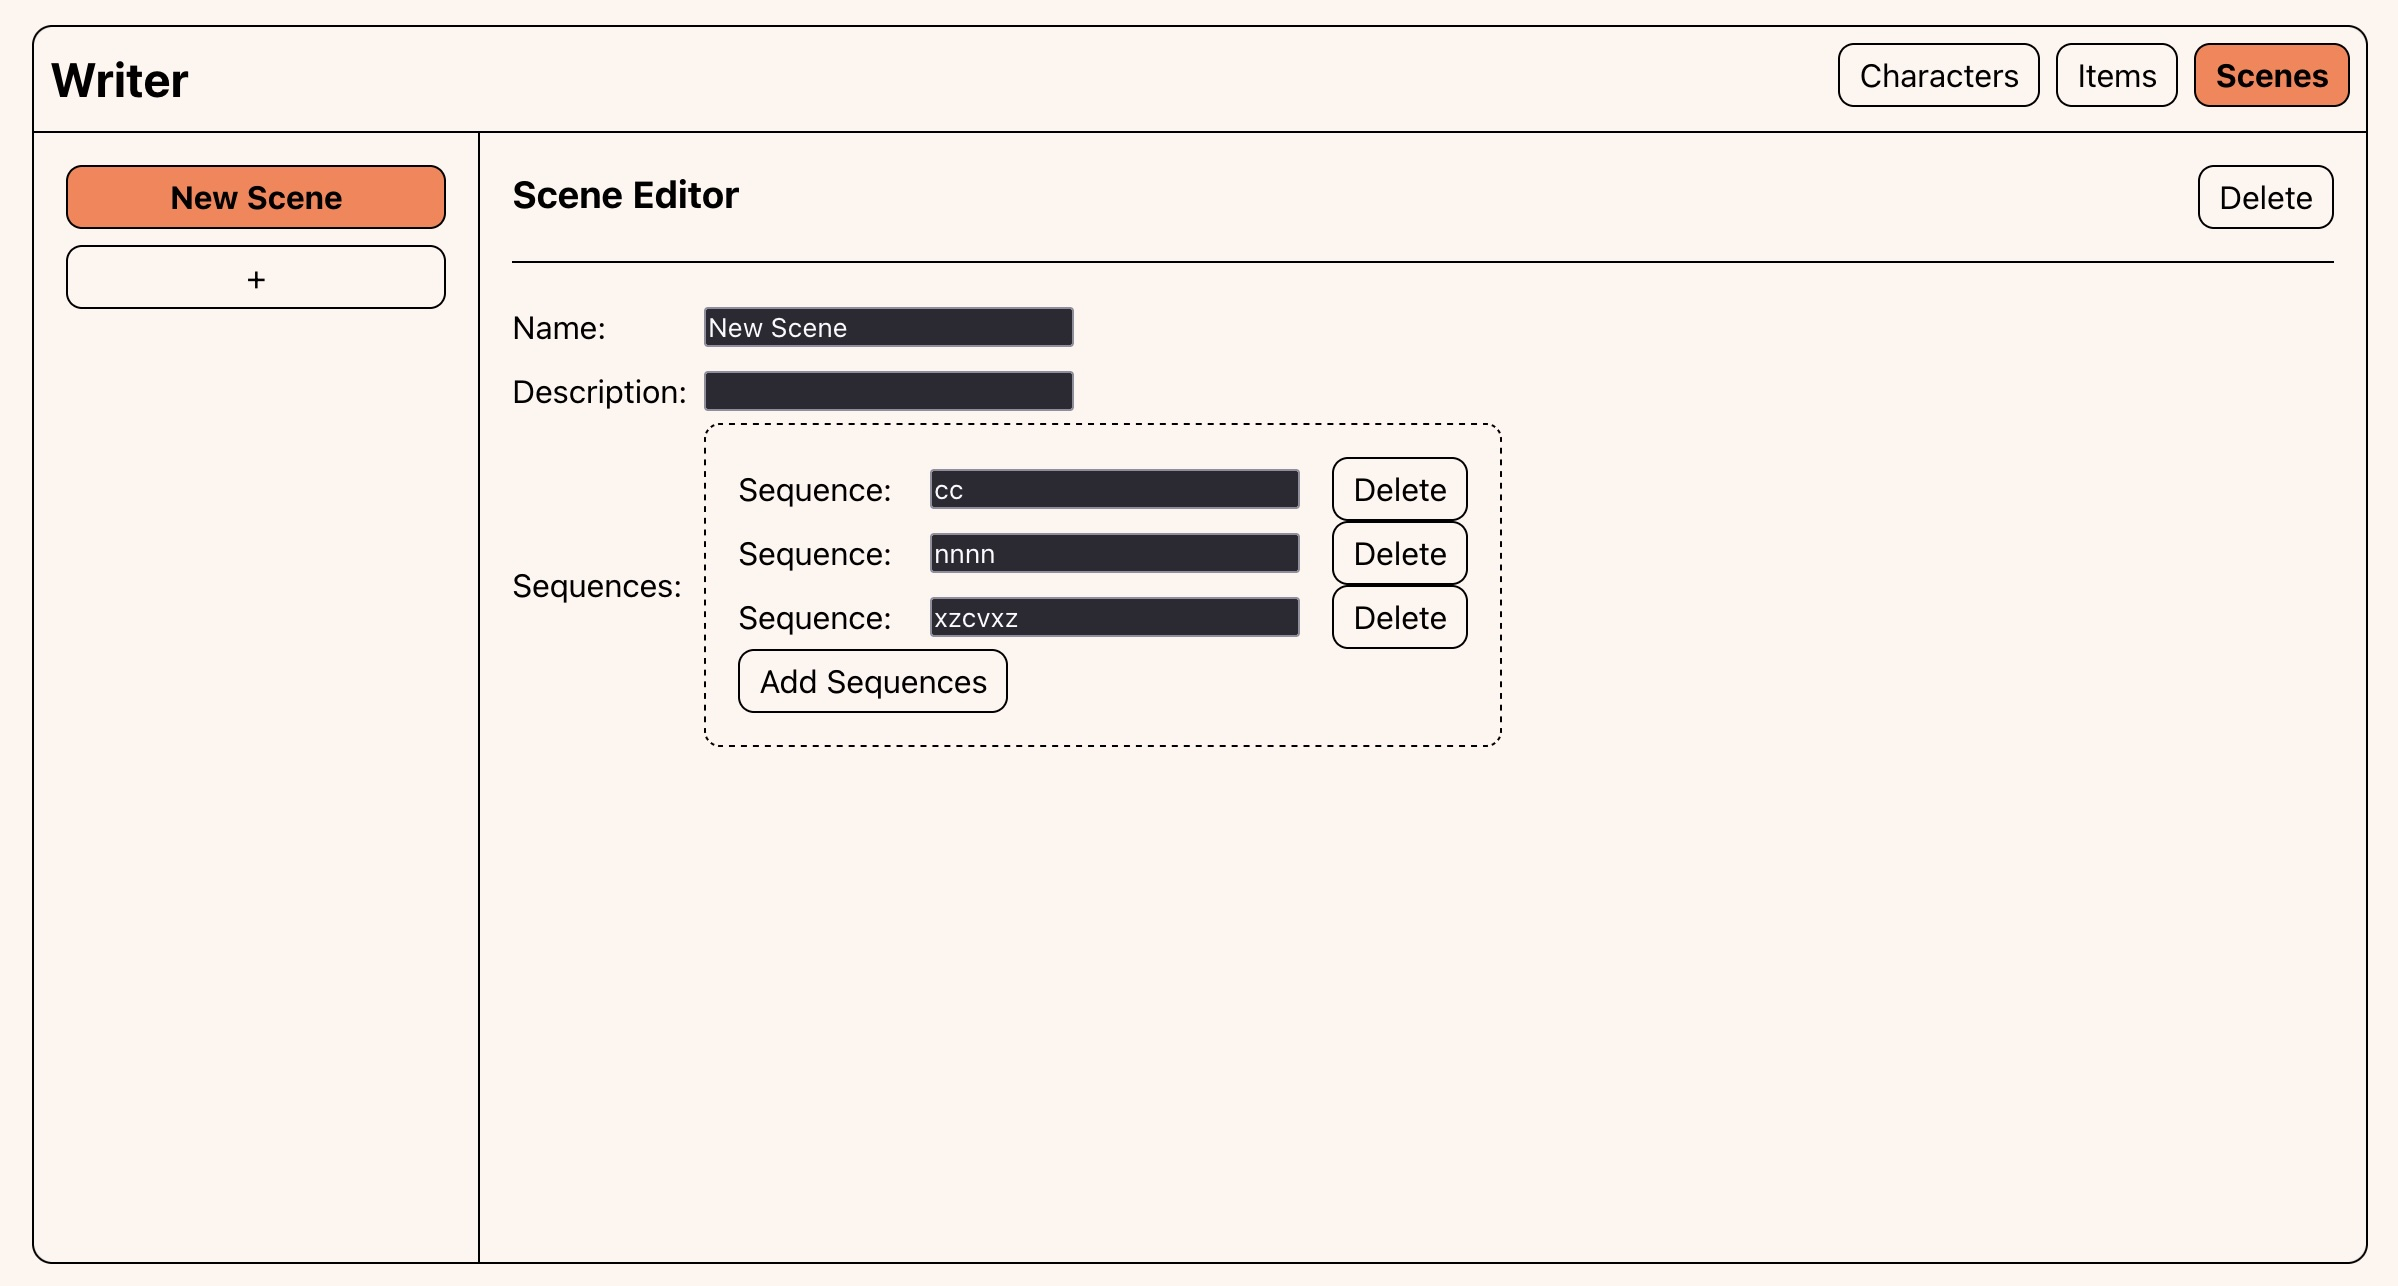
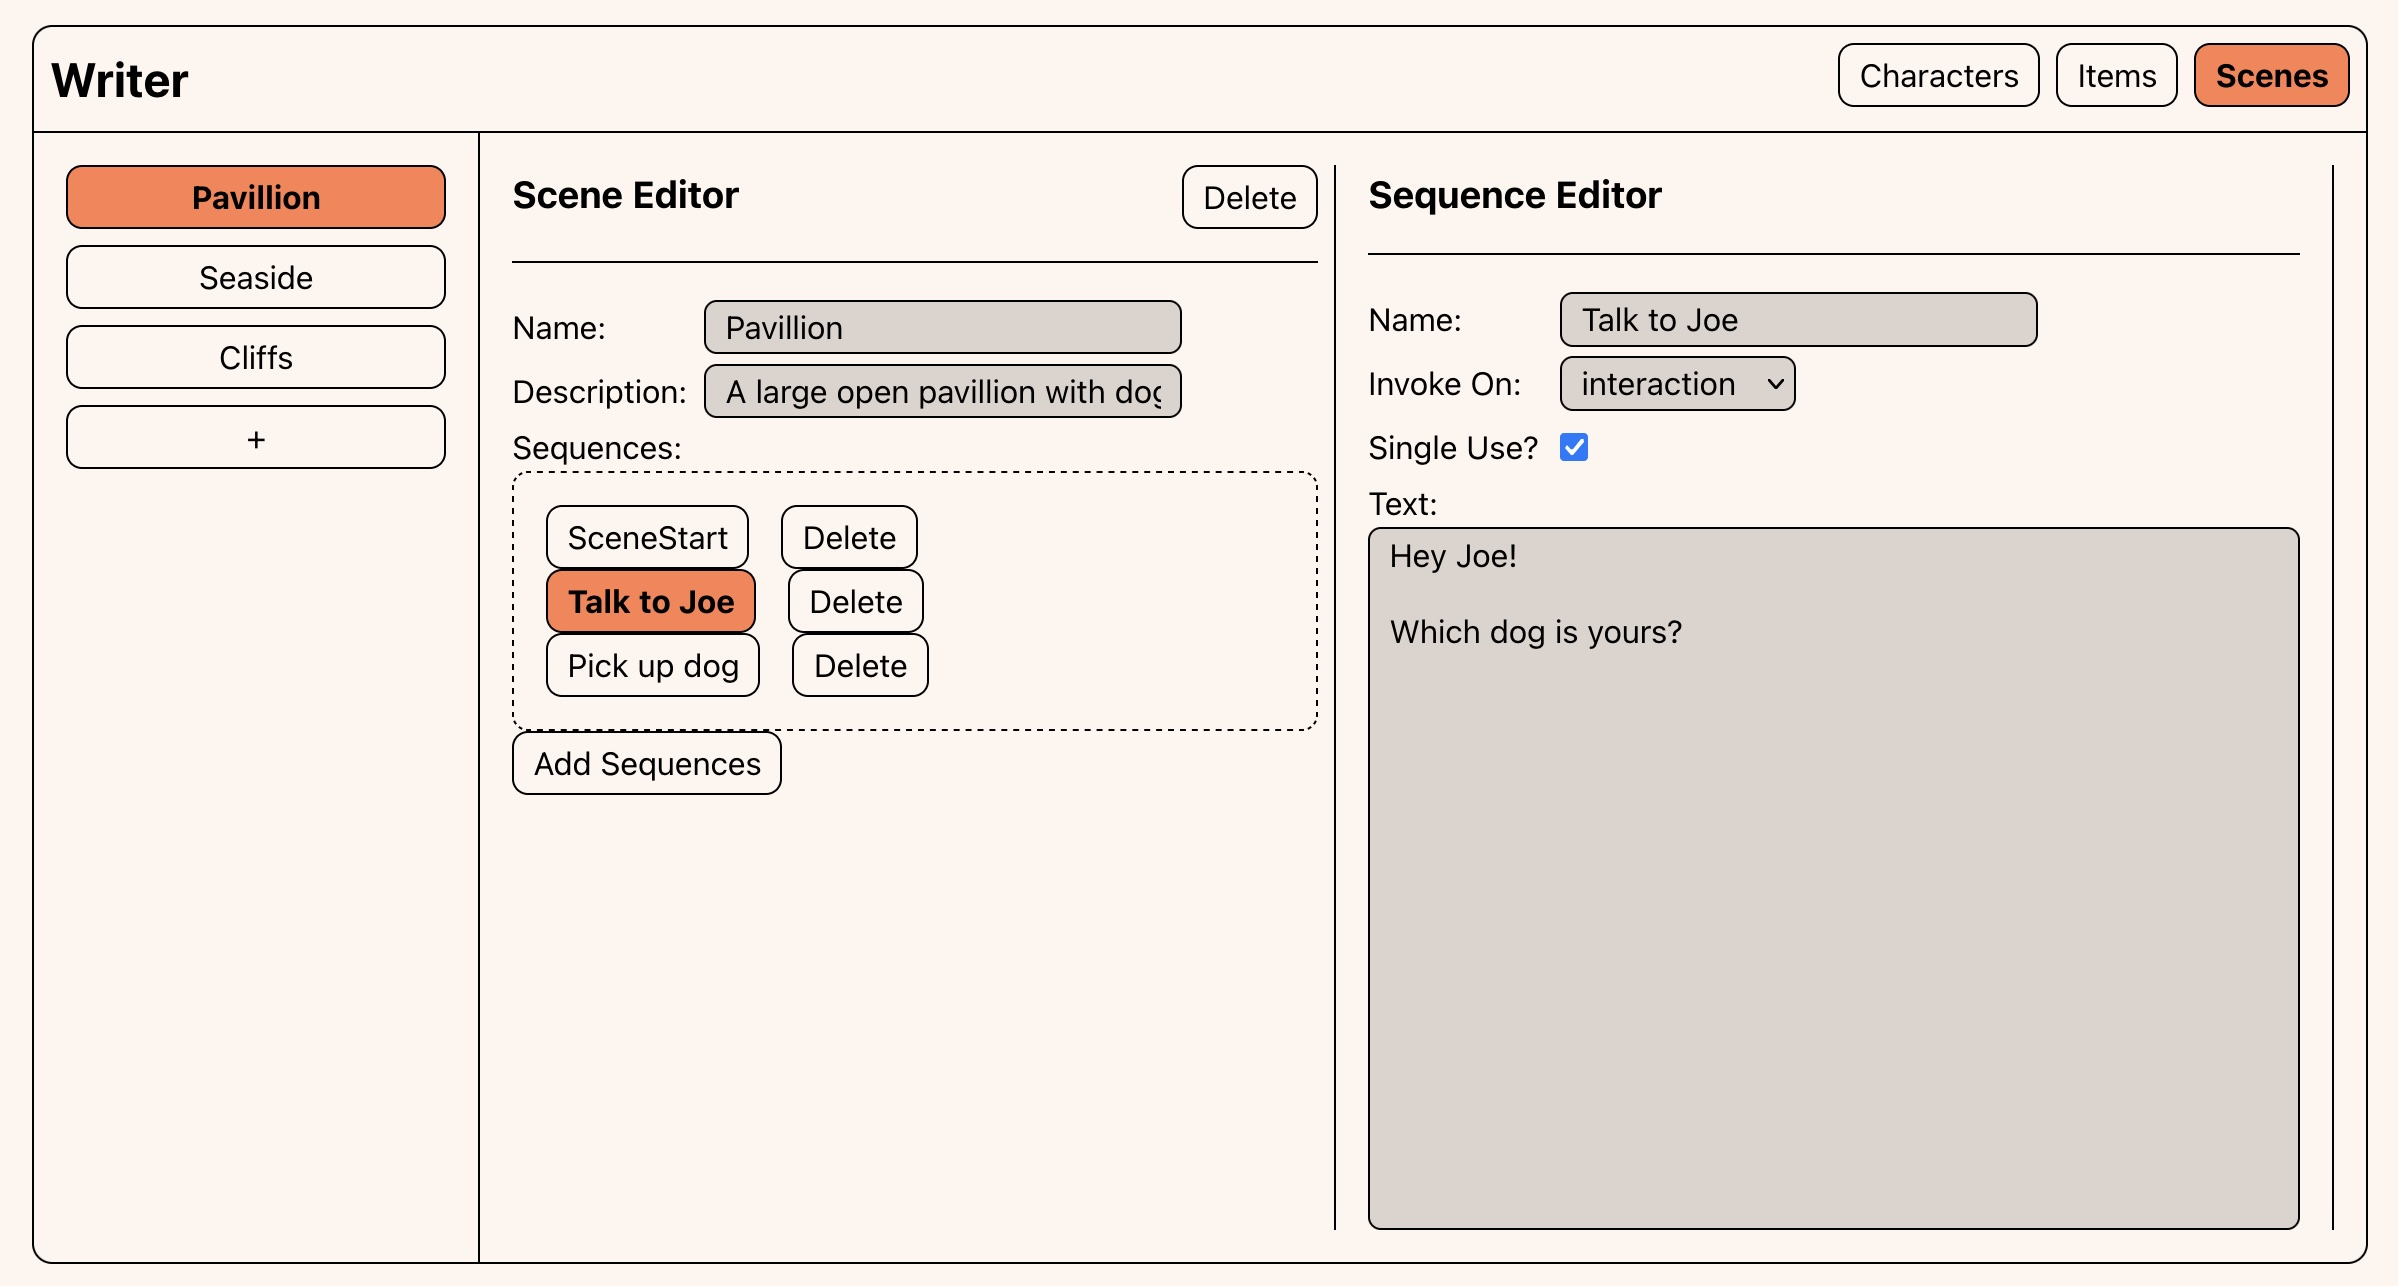
Creation and editing of Sequences added

diff --git a/src/Components/EntityEditor/FieldEditor.jsx b/src/Components/EntityEditor/FieldEditor.jsx
@@ -1,7 +1,8 @@
 import React from "react";
 import panelStyles from '../../Styles/Panels.module.css';
+import buttonStyles from "../../Styles/Buttons.module.css";
 
-function FieldEditor({field, value, onChange}) {
+function FieldEditor({field, value, onChange, selectedID, onSelect}) {
 
   function handleDelete(items, index) {
     if (!window.confirm(`Are you sure you want to delete this ${field.label}?`)) return
@@ -25,45 +26,48 @@ function FieldEditor({field, value, onChange}) {
       );
     case 'object[]': {
       const items = value ?? [];
-      return (
-          <div className={panelStyles.field}>
+
+      if (field.key === 'sequences' && onSelect){
+        return (
+          <div>
             <div style={{minWidth: '6em'}}>
               {field.label}:
             </div>
             <div className={panelStyles.nestedPanel}>
-            {items.map((item, index) => (
-                <div key={index} className={panelStyles.nestedItem}>
-                  {field.fields.map(subField => (
-                      <FieldEditor
-                          key={subField.key}
-                          field={subField}
-                          value={item[subField.key]}
-                          onChange={subValue => {
-                            const updated = [...items];
-                            updated[index] = {
-                              ...item,
-                              [subField.key]: subValue
-                            };
-                            onChange(updated);
-                          }}
-                      />
-                  ))}
-                  <div style={{minWidth: '1em'}} />
-                  <button onClick={()=>handleDelete(items, index)}>Delete</button>
-                </div>
-            ))}
-
+              {
+                items.map((seq, index) => (
+                    <div key={seq.id} className={panelStyles.nestedItem}>
+                      <button
+                          onClick={() => onSelect(seq.id)}
+                          className={seq.id === selectedID ? buttonStyles.activeButton : buttonStyles.button}
+                      >
+                        {seq.name}
+                      </button>
+                      <div style={{minWidth: '1em'}} />
+                      <button onClick={() => handleDelete(items, index)}>
+                        Delete
+                      </button>
+                    </div>
+                ))
+              }
+          </div>
             <button
                 onClick={() => {
-                  const newItem = Object.fromEntries(
-                      field.fields.map(f => [f.key, f.defaultValue])
-                  );
+                  const newItem = {
+                    id: crypto.randomUUID(),
+                    ...Object.fromEntries(
+                        field.fields.map(f => [f.key, f.defaultValue])
+                    )
+                  };
                   onChange([...items, newItem]);
                 }}>
               Add {field.label}
             </button>
-          </div>
         </div>
+      )}
+
+      return (
+          <></>
       );
     }
     default:

diff --git a/src/Components/SequenceEditor/SequenceEditor.jsx b/src/Components/SequenceEditor/SequenceEditor.jsx
@@ -1,0 +1,55 @@
+import React from 'react';
+import panelStyles from '../../Styles/Panels.module.css';
+
+function SequenceEditor({sequence, setSequence}) {
+  if (!sequence) return null;
+
+  return (
+      <div className={panelStyles.sequenceEditorPanel}>
+        <div className={panelStyles.panelHeader}>
+          <h3>Sequence Editor</h3>
+        </div>
+        <div className={panelStyles.workAreaContent}>
+          <div className={panelStyles.nestedItem}>
+            <div style={{minWidth: '6em'}}>
+              Name:
+            </div>
+            <input
+                type='text'
+                value={sequence.name}
+                onChange={(e) => setSequence({...sequence, name: e.target.value})}
+            />
+          </div>
+          <div className={panelStyles.nestedItem}>
+            <div style={{minWidth: '6em'}}>
+              Invoke On:
+            </div>
+            <select
+                value={sequence.invokeType}
+                onChange={(e) => setSequence({...sequence, invokeType: e.target.value})}>
+              <option>sceneStart</option>
+              <option>interaction</option>
+            </select>
+          </div>
+          <div className={panelStyles.nestedItem}>
+            <div style={{minWidth: '6em'}}>
+              Single Use?
+            </div>
+            <input
+                type='checkbox'
+                checked={sequence.isSingleUse}
+                onChange={(e) => setSequence({...sequence, isSingleUse: e.target.checked})}
+            />
+          </div>
+          <div className={panelStyles.textAreaField}>
+            Text:
+            <textarea
+                value={sequence.text}
+                onChange={(e) => setSequence({...sequence, text: e.target.value})} />
+          </div>
+        </div>
+      </div>
+  )
+}
+
+export default SequenceEditor;

diff --git a/src/Components/WorkArea/WorkArea.jsx b/src/Components/WorkArea/WorkArea.jsx
@@ -1,9 +1,11 @@
 import React from "react";
 import entitySchemas from "../../Schemas/entitySchemas.js";
 import EntityEditor from "../EntityEditor/EntityEditor.jsx";
+import SequenceEditor from "../SequenceEditor/SequenceEditor.jsx";
 import panelStyles from "../../Styles/Panels.module.css";
 
 function WorkArea({currentPage, characterState, itemState, sceneState}) {
+
   const stateMap = {
     character: characterState,
     item: itemState,
@@ -13,6 +15,27 @@ function WorkArea({currentPage, characterState, itemState, sceneState}) {
   const schema = entitySchemas[currentPage];
   const state = stateMap[currentPage];
 
+  const isScene = currentPage === 'scene';
+  const currentScene = isScene
+      ? sceneState.list.find(s => s.id === sceneState.currentID)
+      : null;
+  const currentSequence = currentScene?.sequences.find(s => s.id === sceneState.currentSequenceID);
+
+  function updateSequence(updatedSequence) {
+    sceneState.setList(prev => prev.map(
+        scene => scene.id !== currentScene.id
+          ? scene
+          : {
+            ...scene,
+            sequences: scene.sequences.map(
+              seq => seq.id === updatedSequence.id
+                  ? updatedSequence
+                  : seq
+            )
+        }
+      ));
+  }
+
   return (
       <div className={panelStyles.workArea}>
         <EntityEditor
@@ -20,6 +43,13 @@ function WorkArea({currentPage, characterState, itemState, sceneState}) {
           state={state}
           schema={schema}
         />
+        { isScene && currentScene && currentSequence && (
+            <SequenceEditor
+                key={currentSequence.id}
+                sequence={currentSequence}
+                setSequence={updateSequence} />
+          )
+        }
       </div>
   );
 }

diff --git a/src/App.jsx b/src/App.jsx
@@ -13,7 +13,7 @@ function App() {
   const [currentPage, setCurrentPage] = useState('scene')
   const characterState = useEntity([initialCharacter], initialCharacter.id);
   const itemState = useEntity([initialItem], initialItem.id);
-  const sceneState = useEntity([initialScene], initialScene.id);
+  const sceneState = useSceneEntity([initialScene], initialScene.id);
 
   return (
     <div className="app">
@@ -37,6 +37,14 @@ function useEntity(initialItems, initialID){
   const [list, setList] = useState(initialItems);
   const [currentID, setCurrentID] = useState(initialID);
   return{list, setList, currentID, setCurrentID };
+}
+
+function useSceneEntity(initialItems, initialID){
+  const [list, setList] = useState(initialItems);
+  const [currentID, setCurrentID] = useState(initialID);
+  const firstSequenceID = initialItems[0]?.sequences?.[0]?.id ?? null;
+  const [currentSequenceID, setCurrentSequenceID] = useState(firstSequenceID);
+  return{list, setList, currentID, setCurrentID, currentSequenceID, setCurrentSequenceID };
 }
 
 export default App

diff --git a/src/App.css b/src/App.css
@@ -27,6 +27,34 @@ button {
   padding: 0.2em 0.6em;
 }
 
+input {
+  background-color: #ddd3cc;
+  color: black;
+  padding: 0.2em 0.6em;
+  border-radius: 0.4em;
+  border: 1px solid black;
+  font-size: 1em;
+}
+
+textarea {
+  background-color: #ddd3cc;
+  color: black;
+  padding: 0.2em 0.6em;
+  border-radius: 0.4em;
+  border: 1px solid black;
+  font-size: 1em;
+  font-family: inherit;
+}
+
+select{
+  background-color: #ddd3cc;
+  color: black;
+  padding: 0.2em 0.6em;
+  border-radius: 0.4em;
+  border: 1px solid black;
+  font-size: 1em;
+}
+
 button:hover {
   background-color: #ddd3cc;
 }
@@ -34,6 +62,7 @@ button:hover {
 .app {
   display: flex;
   flex-grow: 1;
+  height: 100vh;
   margin: 0 auto;
   max-width: 1200px;
   flex-direction: column;
@@ -42,6 +71,7 @@ button:hover {
 
 .content {
   display: flex;
+  flex: 1;
   flex-direction: row;
   height: 100%;
 }

diff --git a/src/Styles/Panels.module.css b/src/Styles/Panels.module.css
@@ -5,8 +5,6 @@
 .panelHeader {
     border-bottom: black solid 1px;
     display: flex;
-    flex-grow: 1;
-    justify-content: flex-end;
     padding-bottom: 1em;
     width: 100%;
 }
@@ -62,10 +60,40 @@
     height: 100%;
 }
 
+.workAreaContent{
+    padding-top: 1em;
+    flex: 1;
+    display: flex;
+    flex-direction: column;
+    min-height: 0;
+}
+
 .objectListPanel {
     display: flex;
     flex-direction: column;
     gap: 0.5em;
     padding: 0.5em;
     width: 100%;
+}
+
+.sequenceEditorPanel{
+    border-left: black solid 1px;
+    border-right: black solid 1px;
+    padding: 0 1em;
+    min-width: 500px;
+    height: 100%;
+    display: flex;
+    flex-direction: column;
+}
+
+.textAreaField {
+    display: flex;
+    flex-direction: column;
+    flex: 1;
+    min-height: 0;
+}
+
+.textAreaField textarea {
+    flex: 1;
+    resize: none;
 }

diff --git a/src/Components/EntityEditor/EntityEditor.jsx b/src/Components/EntityEditor/EntityEditor.jsx
@@ -34,7 +34,7 @@ function EntityEditor({isActive, state, schema}) {
         <button onClick={handleDelete}>Delete</button>
       </div>
 
-      <div style={{paddingTop: '1em'}}>
+      <div className={panelStyles.workAreaContent}>
         { schema.fields.map(field => (
           <FieldEditor
             key={field.id}
@@ -43,6 +43,14 @@ function EntityEditor({isActive, state, schema}) {
             onChange={value =>
               updateEntity(e => ({ ...e, [field.key]: value })
             )}
+            selectedID={ field.key === 'sequences'
+                ? state.currentSequenceID
+                : undefined
+            }
+            onSelect={ field.key === 'sequences'
+                ? state.setCurrentSequenceID
+                : undefined
+            }
           />
         ))}
       </div>

diff --git a/src/Schemas/entitySchemas.js b/src/Schemas/entitySchemas.js
@@ -22,7 +22,10 @@ export const entitySchemas = {
         type: 'object[]',
         defaultValue: [],
         fields: [
-          { key: 'sequence', label: 'Sequence', type: 'text', defaultValue: ''},
+          { key: 'name', type: 'text', defaultValue: 'New Sequence' },
+          { key: 'invokeType', type: 'text', defaultValue: 'interaction' },
+          { key: 'isSingleUse', type: 'boolean', defaultValue: false },
+          { key: 'text', type: 'text', defaultValue: ''}
         ]
       }
     ]

diff --git a/README.md b/README.md
@@ -2,20 +2,19 @@
 
 ### The Pitch
 An interactive writing tool designed to take a game narrative from initial 
-white-box all the way to the final story. Users can write in plain text with 
-minimal markup, and the tool automatically organizes items, characters, and 
-non-linear sequences of dialogue, cutscenes, and interaction events. It also 
-prepares tables for localization. The resulting data can be exported directly 
-to a game engine, enabling the creation of new level block-outs or updating 
-existing ones.
+white-box all the way to the final story. Users will write in plain text with 
+minimal markup, and the tool should automatically organize items, characters, 
+non-linear sequences of dialogue, cutscenes, and interaction events. It should
+also prepare tables for localization. The resulting data should be exported
+directly to a game engine, enabling the creation of new level block-outs or 
+updating existing data.
 
 ### Current Progress
-The program currently provides a basic framework for managing game entities 
-like characters, items, and scenes, allowing creation, editing, and deletion 
-of these elements. It features a sidebar for selecting entities and a work 
-area that dynamically displays an editor based on the current selection, but 
-it does not yet support complex sequences, arrays of nested objects, or full 
-narrative parsing.
+The program currently allows for creation, editing, and deletion of entities
+such as characters, items and scenes. It features a sidebar for selecting 
+entities and a work area that dynamically displays any editors for the selected 
+entity. It does not support narrative parsing, data validation, localisation or 
+serializing / deserializing.
 
 <p align="center">
 	<img src="images/screenshotA.jpg" alt="Screenshot A" height="250"/>
